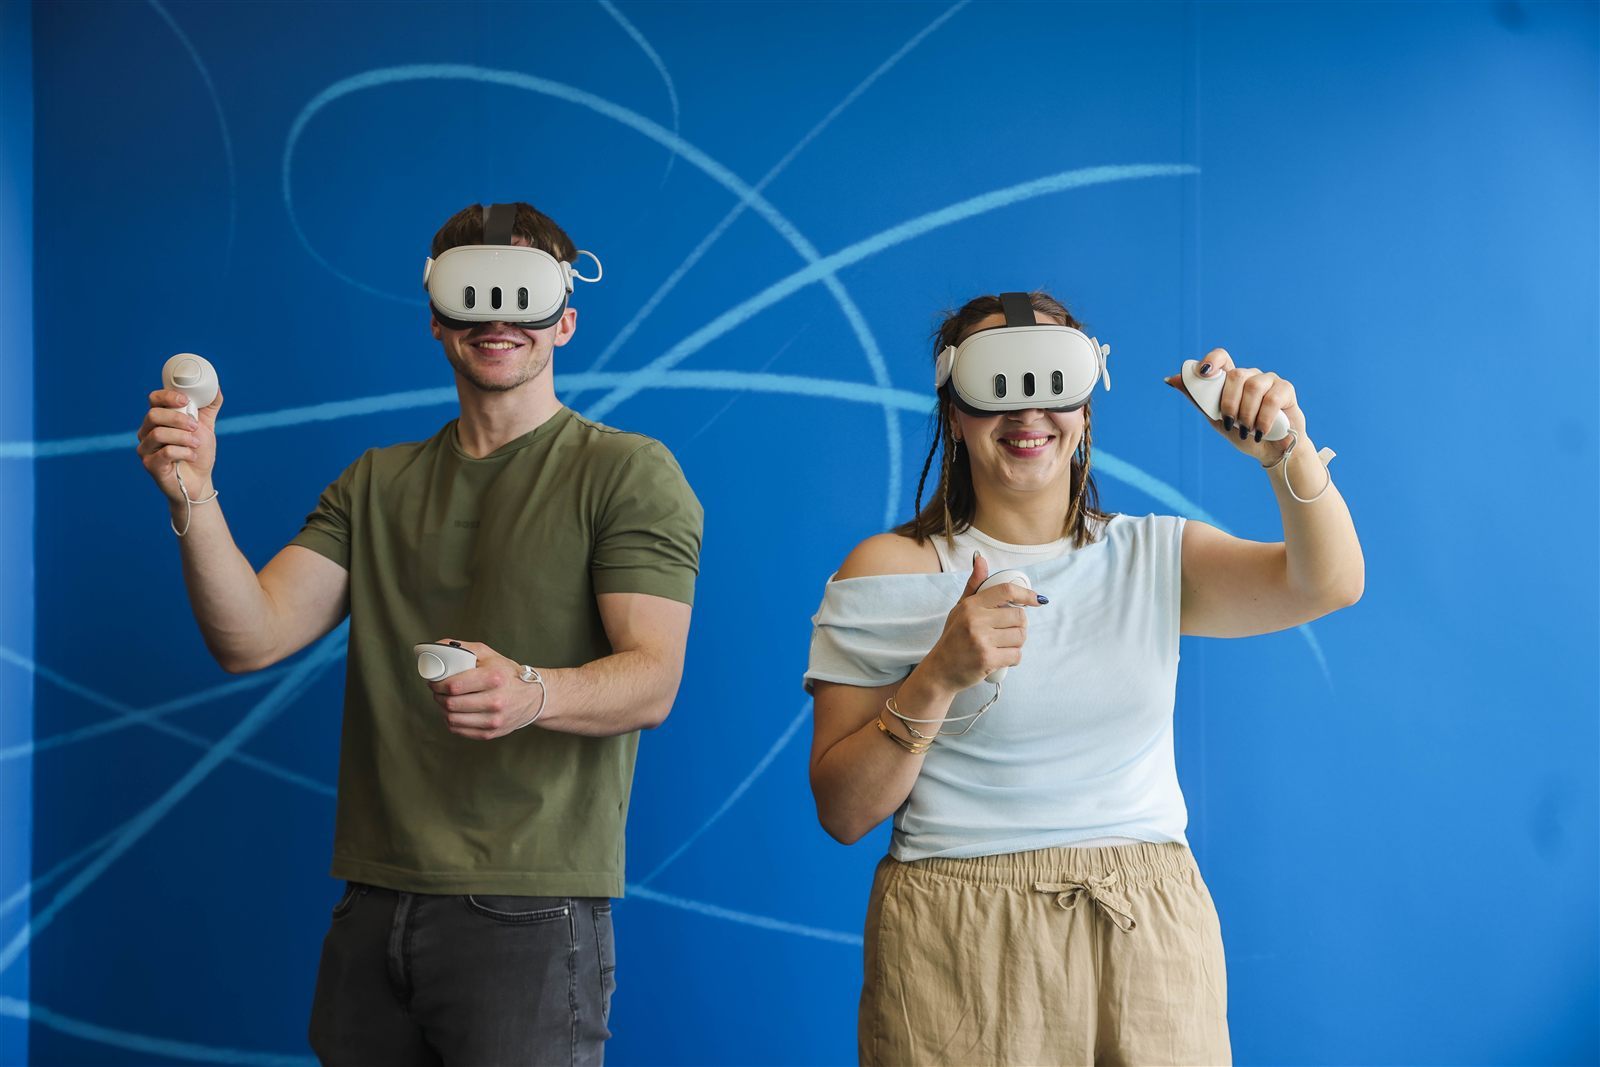
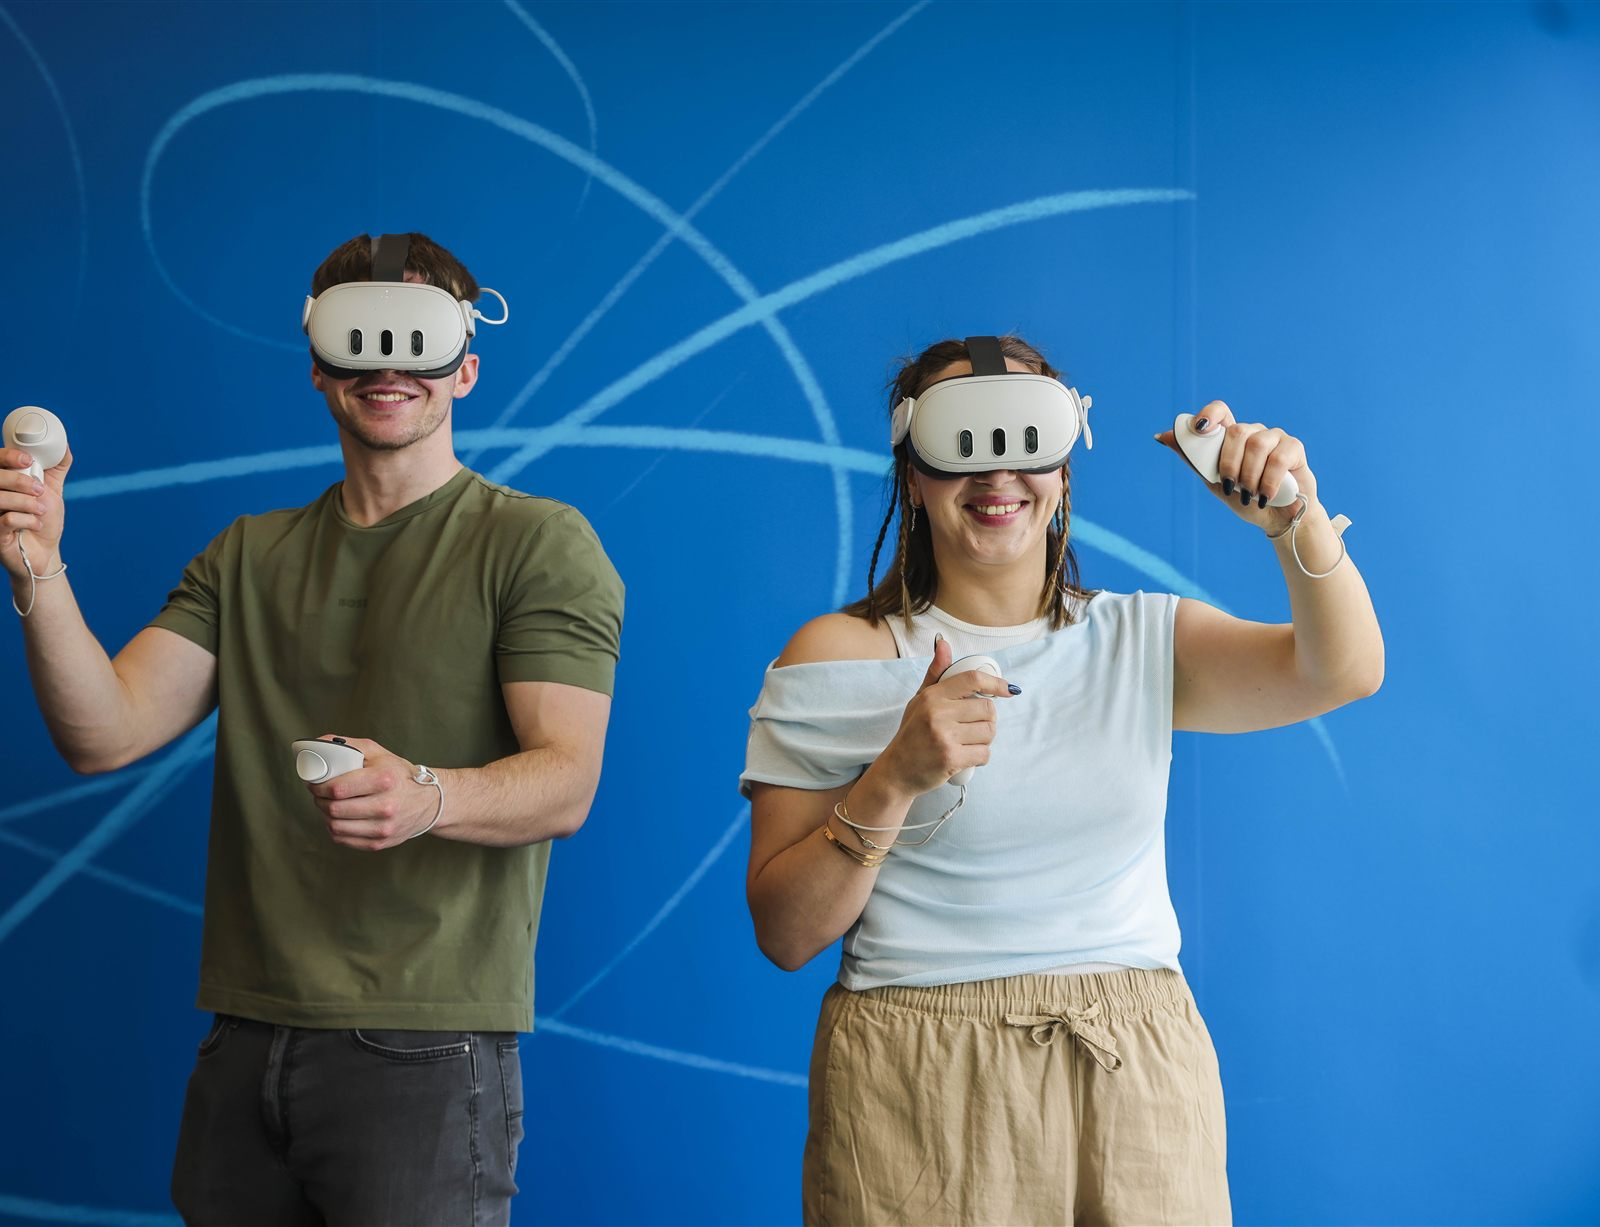
Restore centered slogan, crop wall from hero photo to remove dead gap

diff --git a/styles.css b/styles.css
@@ -519,16 +519,9 @@ body.nav-open .nav-toggle-bar:nth-child(2) { top: 5px; transform: rotate(-45deg)
 
 .hero .wrap { position: relative; z-index: 1; }
 
-/* Hero content hugs the left edge instead of the centered column,
-   freeing the right two-thirds of the banner for the photo */
-.hero .wrap {
-  max-width: none;
-  padding-inline: clamp(1.5rem, 4vw, 3.75rem);
-}
-
 .hero-layout {
   display: grid;
-  grid-template-columns: minmax(0, 42rem) minmax(0, 1fr);
+  grid-template-columns: minmax(0, 1.65fr) minmax(0, 1fr);
   gap: clamp(2rem, 5vw, 4.5rem);
   align-items: end;
 }
@@ -572,12 +565,12 @@ body.nav-open .nav-toggle-bar:nth-child(2) { top: 5px; transform: rotate(-45deg)
 .hero-photo-bg {
   position: absolute;
   top: 0; right: 0; bottom: 0;
-  width: min(82%, 73rem);
+  width: min(53%, 48rem);
   background-image: url("assets/students-vr.jpg");
   background-size: cover;
-  background-position: 50% 30%;
-  -webkit-mask-image: linear-gradient(to left, #000 72%, rgba(0, 0, 0, 0.5) 86%, transparent 97%);
-  mask-image: linear-gradient(to left, #000 72%, rgba(0, 0, 0, 0.5) 86%, transparent 97%);
+  background-position: 50% 25%;
+  -webkit-mask-image: linear-gradient(to left, #000 90%, rgba(0, 0, 0, 0.5) 96%, transparent 100%);
+  mask-image: linear-gradient(to left, #000 90%, rgba(0, 0, 0, 0.5) 96%, transparent 100%);
   pointer-events: none;
 }
 
@@ -585,7 +578,7 @@ body.nav-open .nav-toggle-bar:nth-child(2) { top: 5px; transform: rotate(-45deg)
   content: "";
   position: absolute;
   inset: 0;
-  background: linear-gradient(90deg, rgba(7, 28, 101, 0.3), rgba(7, 28, 101, 0) 24%);
+  background: linear-gradient(90deg, rgba(7, 28, 101, 0.22), rgba(7, 28, 101, 0) 12%);
 }
 
 .hero-meta {
